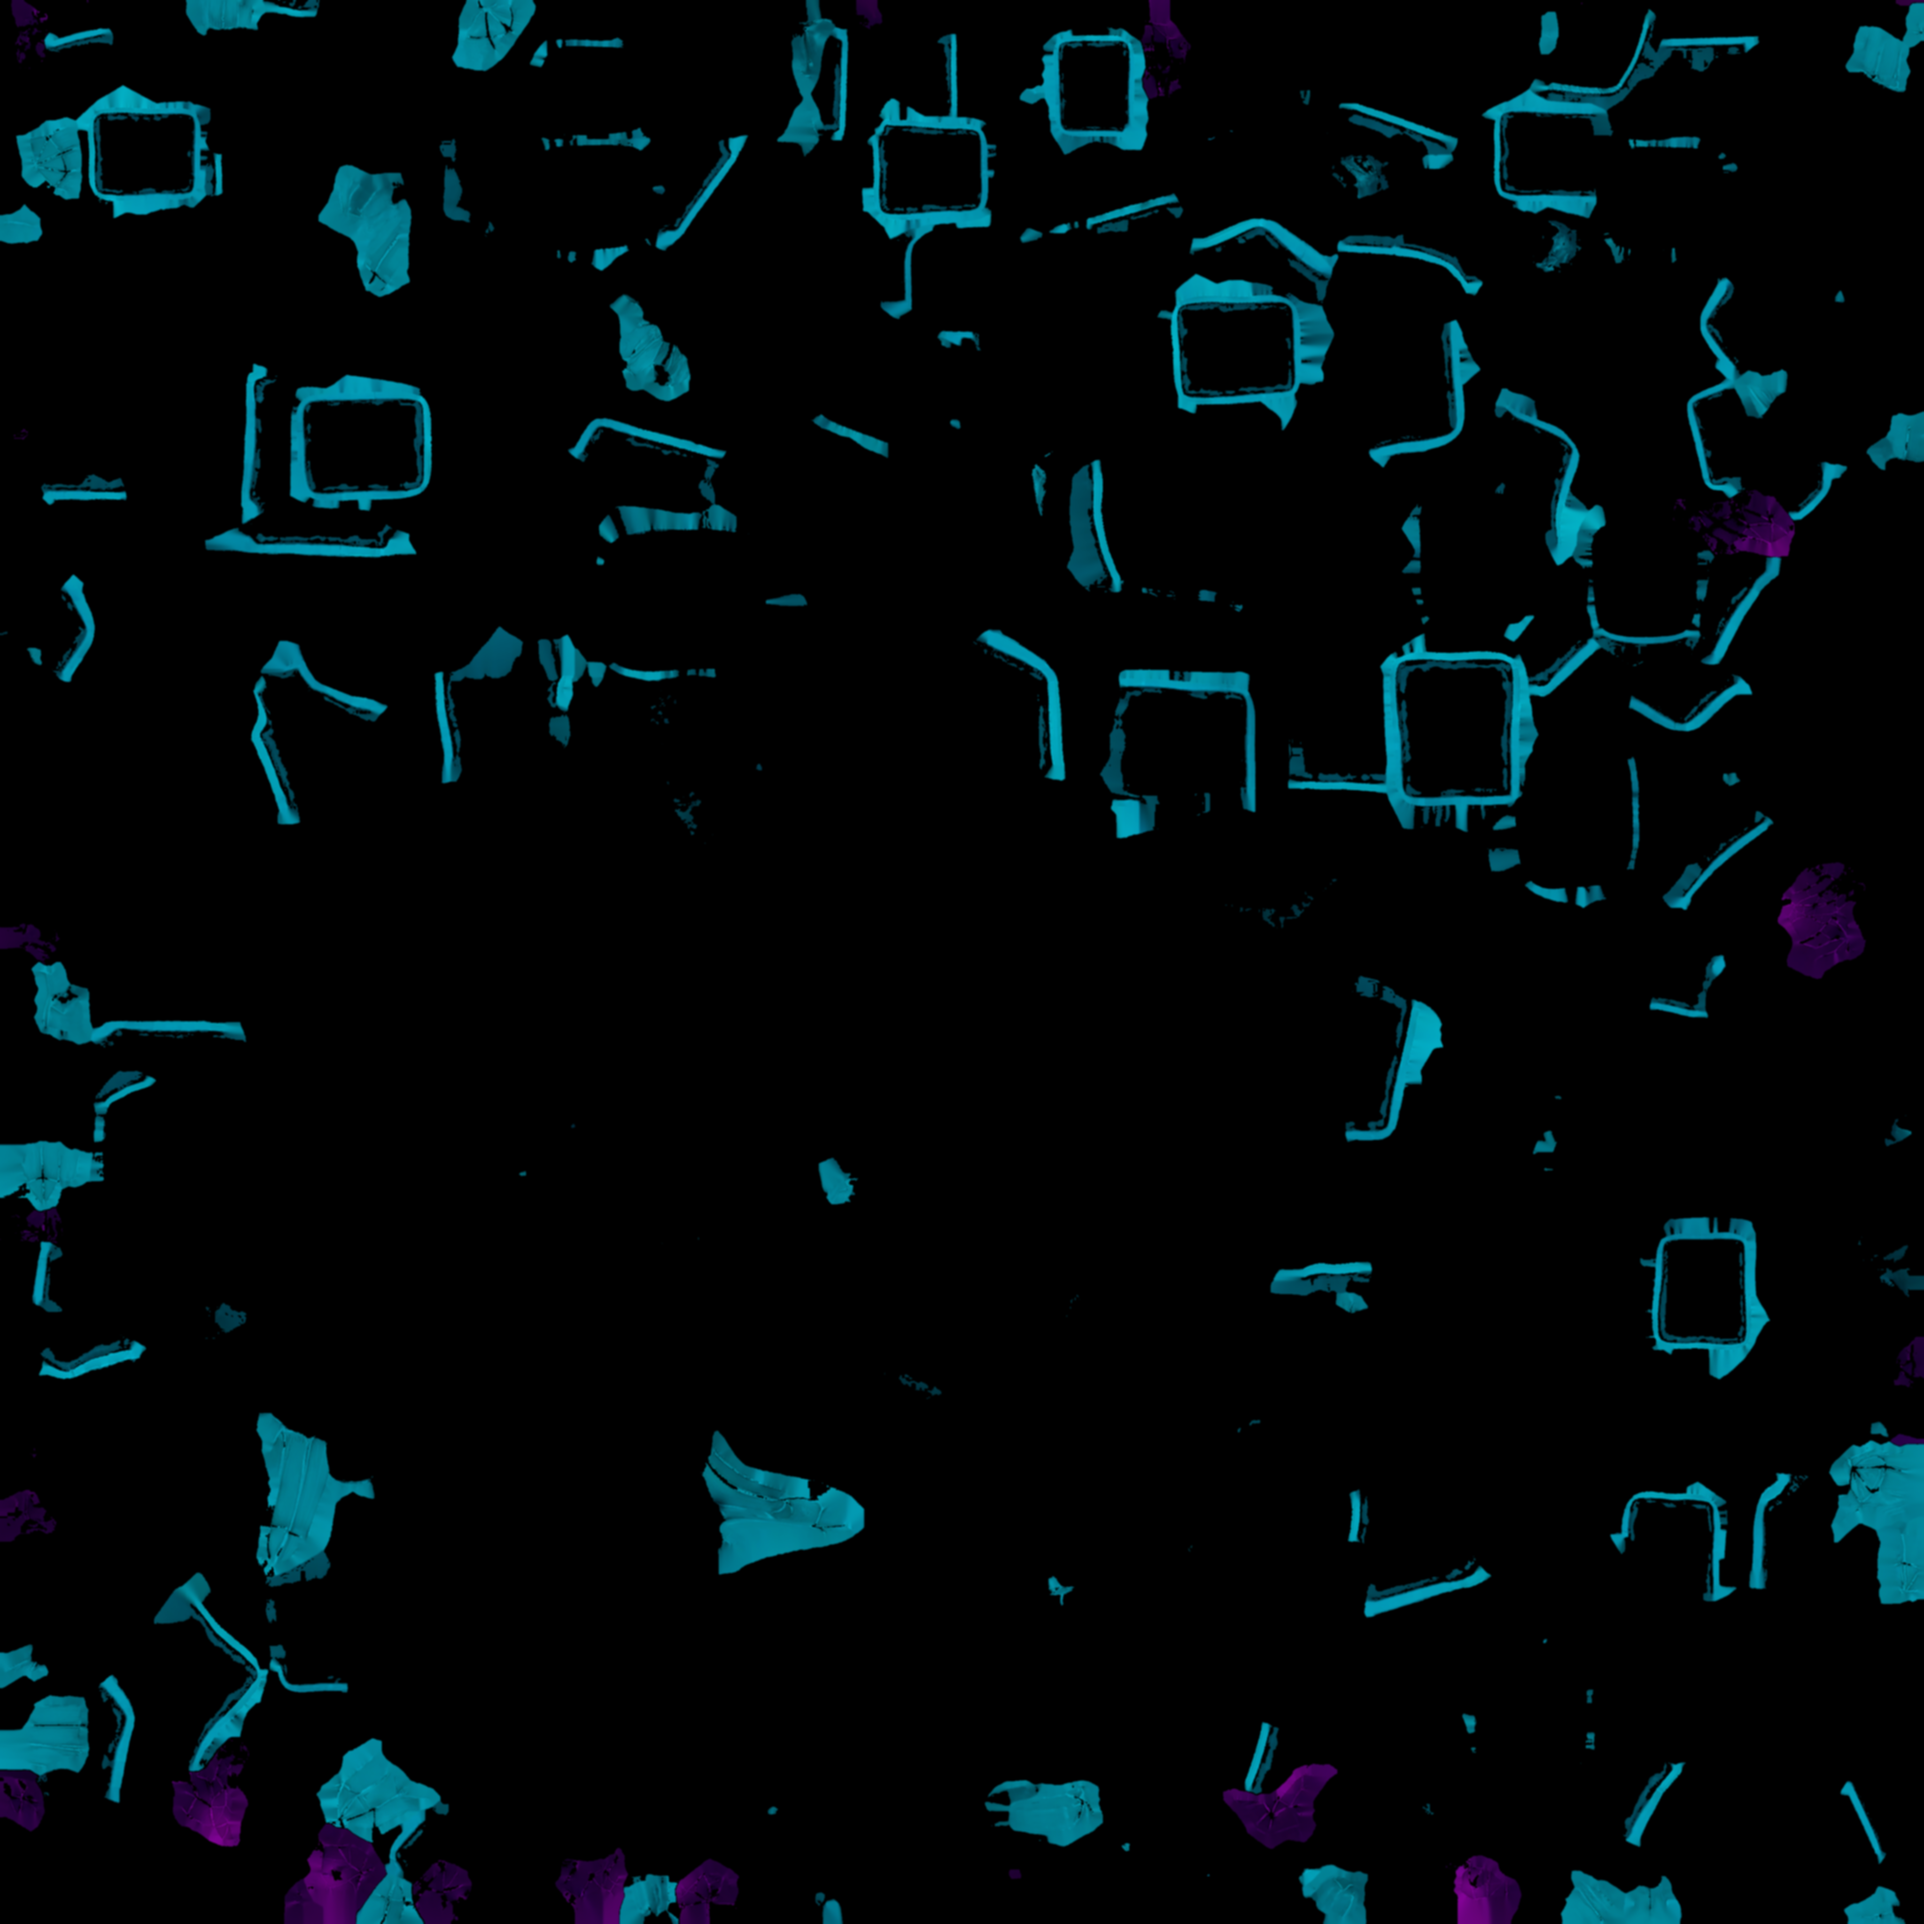
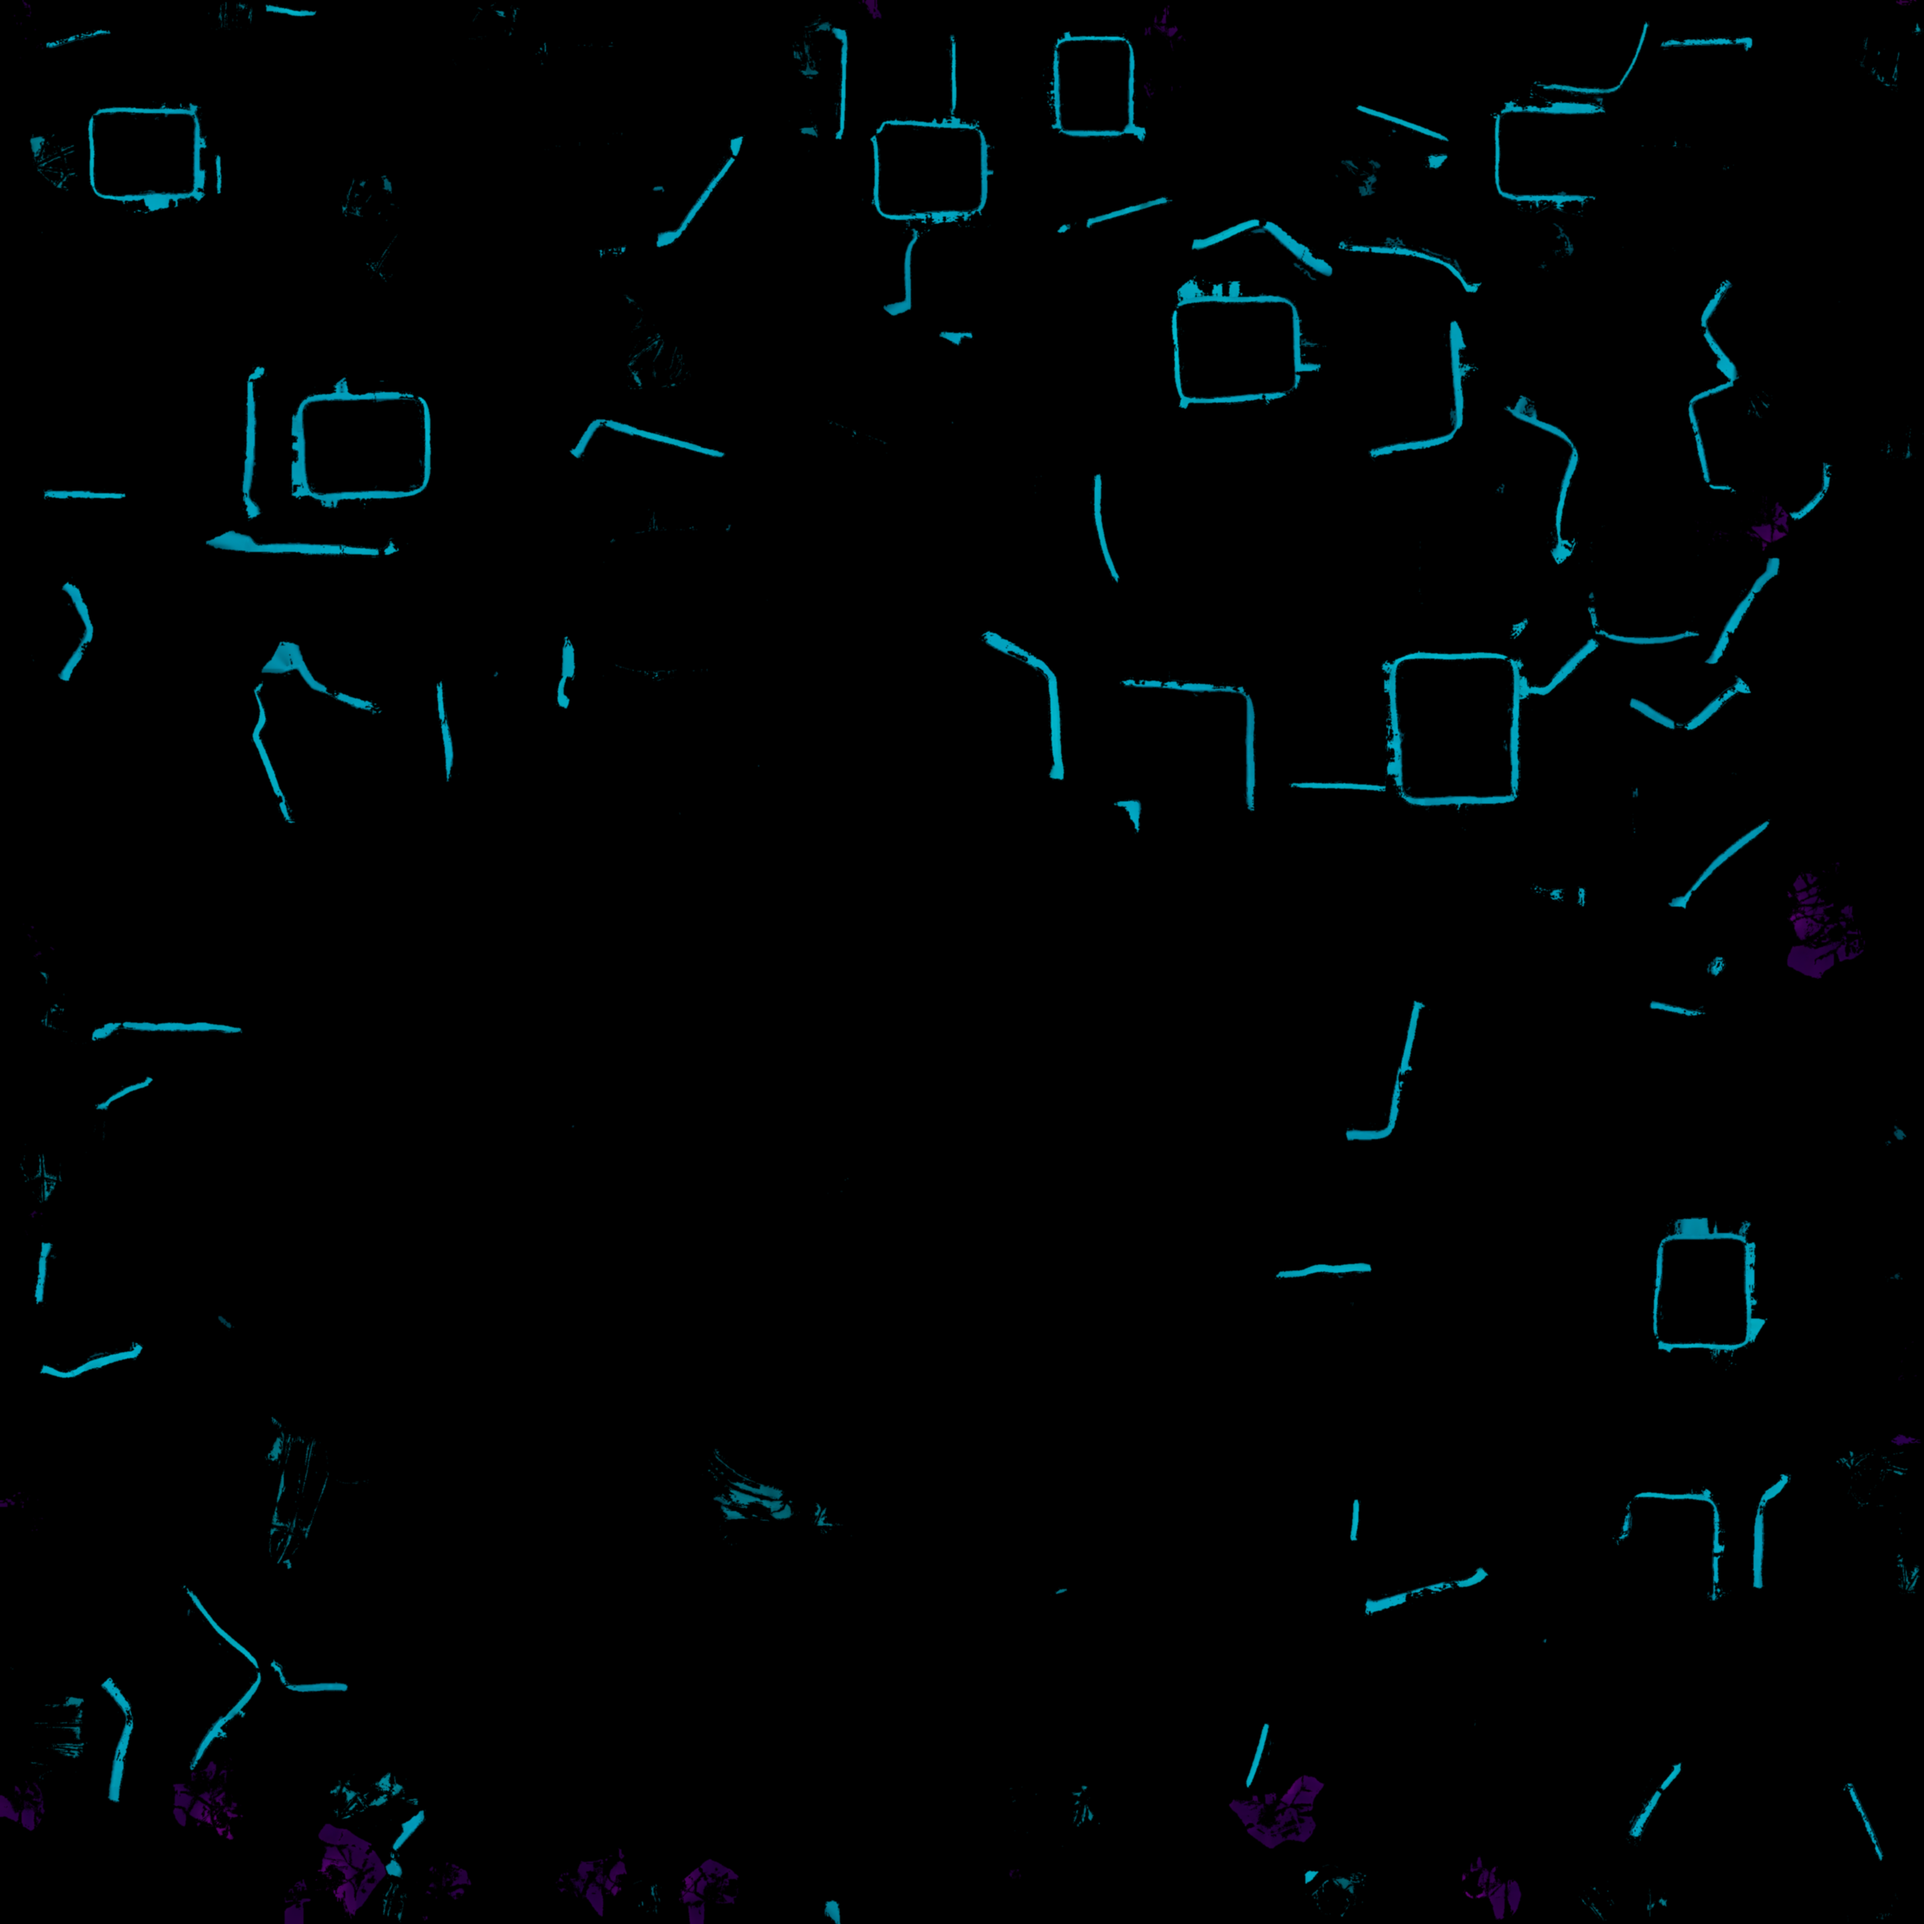
fix: mythic v10 - ultimate cleaning of metal and artifact removal

diff --git a/bake_mythic_v10.js b/bake_mythic_v10.js
@@ -1,0 +1,56 @@
+const sharp = require('sharp');
+const fs = require('fs');
+
+const INPUT = 'Emissive/texture.jpeg';
+const OUTPUT = 'Emissive/emissive-mythic.png';
+
+async function bake() {
+    console.log("🚀 Mythic v10: ФИНАЛЬНАЯ ЧИСТКА. Убираем остатки грязи...");
+    if (!fs.existsSync(INPUT)) return console.error("❌ Нет файла: " + INPUT);
+
+    try {
+        const image = sharp(INPUT);
+        const { width, height } = await image.metadata();
+        const buffer = await image.raw().toBuffer();
+        const data = new Uint8ClampedArray(buffer);
+
+        for (let i = 0; i < data.length; i += 3) {
+            let r = data[i], g = data[i+1], b = data[i+2];
+
+            const purpleScore = (r + b) / 2 - g;
+            const cyanScore = (g + b) / 2 - r;
+
+            // 1. Усиленный фильтр чистоты
+            // Теперь мы требуем, чтобы сумма полезных каналов была значительно выше "шумного" канала
+            const isCyan = (cyanScore > 35) && (r < (g + b) * 0.3); 
+            const isPurple = (purpleScore > 30) && (g < (r + b) * 0.3);
+
+            // 2. Порог яркости (убираем тусклую "пыль")
+            const brightness = (r + g + b) / 3;
+            const isBrightEnough = brightness > 50; 
+
+            if ((!isCyan && !isPurple) || !isBrightEnough) {
+                data[i] = data[i+1] = data[i+2] = 0;
+            } else {
+                if (isCyan) {
+                    // Синие кристаллы: делаем их чуть контрастнее
+                    data[i] = r * 0.01; 
+                    data[i+1] = g * 0.8; 
+                    data[i+2] = b * 0.9; 
+                } else {
+                    // Фиолетовый: сохраняем глубину
+                    data[i] = r * 0.65;   
+                    data[i+1] = g * 0.01;
+                    data[i+2] = b * 0.75;  
+                }
+            }
+        }
+
+        await sharp(Buffer.from(data), { raw: { width, height, channels: 3 } })
+            .blur(1.2) // Минимальный блюр, чтобы не раздувать грязь
+            .toFile(OUTPUT);
+
+        console.log("✨ ВЫПОЛНЕНО: Карта v10 стерильна.");
+    } catch (e) { console.error("❌ Ошибка:", e.message); }
+}
+bake();
